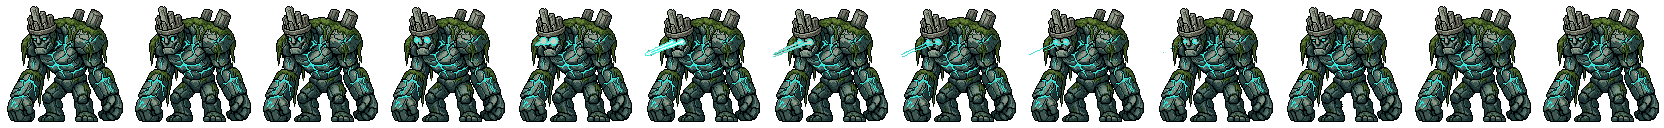
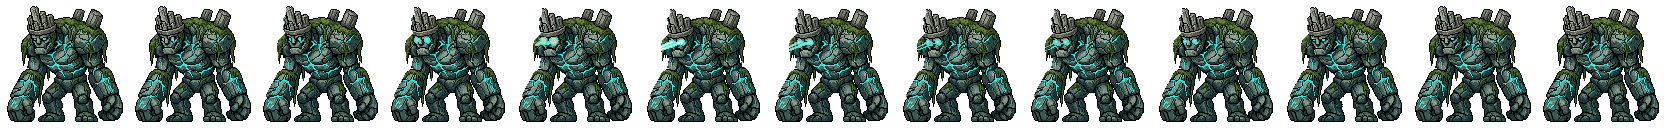
v9.3.1 (en cours) : World Boss — le Colosse ne tire plus 4 rayons (rayons peints dans les images beam/beam3 retirés, seuls les 2 rayons du jeu partent des yeux) ; vidéos promotionnelles 40 s et 20 s (tools/edit-promo.py : caméra, transitions, titres)
Claude-Session: https://claude.ai/code/session_0134j7sUJ6swMBb2FqCxLf5t

Changed region(s): [[0.4375, 0.375, 0.5, 0.4375], [0.375, 0.375, 0.4062, 0.4375], [0.5312, 0.4062, 0.5625, 0.4375]]

diff --git a/src/ui/world-boss.js b/src/ui/world-boss.js
@@ -216,6 +216,7 @@ export function openWorldBoss(state, actions) {
 
   // Outil de capture vidéo (tools) : images pas à pas, 1/60 s chacune, sans requestAnimationFrame.
   if (typeof window !== 'undefined' && window.__wbManual) {
+    window.__wbCtx = ctx;
     window.__wbFrame = () => {
       if (ctx.ended) return true;
       fight.tick();

diff --git a/tools/edit-promo.py b/tools/edit-promo.py
@@ -1,0 +1,121 @@
+#!/usr/bin/env python3
+"""v9.3.1 : vidéos promotionnelles (40 s et 20 s) montées à partir des images filmées par tools/record-trailer.mjs.
+
+  NOENC=1 node tools/record-trailer.mjs --part main --frames DIR ; NOENC=1 WB_SECONDS=20 node tools/record-trailer.mjs --part wb --frames DIR
+  python3 tools/edit-promo.py DIR OUT_DIR [40|20|all]
+
+Mouvements de caméra (zoom avant/arrière, panoramiques) au plus proche voisin, transitions variées (xfade),
+titres animés, mention « Vidéo promotionnelle ». Pas de spoil : une partie des mondes seulement.
+Colosse : la barre et les bandeaux du haut sont hors cadre (recadrage).
+"""
+import os, subprocess, sys
+
+FRAMES, OUT = sys.argv[1], sys.argv[2]
+WHICH = sys.argv[3] if len(sys.argv) > 3 else 'all'
+FPS = 60
+SECS = [2.8, 3, 2.6, 3.2, 2.6, 2.6, 2.4, 2.6, 3.2, 2.6, 3.6, 3]  # plans de record-trailer.mjs (MOMENTS)
+START = [int(sum(SECS[:i]) * FPS) for i in range(len(SECS))]
+FONT = '/usr/share/fonts/opentype/inter/InterDisplay-Bold.otf'
+if not os.path.exists(FONT): FONT = '/usr/share/fonts/truetype/dejavu/DejaVuSerif-Bold.ttf'
+TMP = os.path.join(FRAMES, 'promo-tmp'); os.makedirs(TMP, exist_ok=True); os.makedirs(OUT, exist_ok=True)
+
+def ff(args): subprocess.run(['ffmpeg', '-y', '-loglevel', 'error', *args], check=True)
+
+def esc(s): return s.replace(':', r'\:').replace("'", "’")
+
+def title(text, size, y, t0, t1, color='#ffd76a'):
+    a = f"if(lt(t,{t0}),0,if(lt(t,{t0}+0.3),(t-{t0})/0.3,if(lt(t,{t1}-0.3),1,max(0,({t1}-t)/0.3))))"
+    return (f"drawtext=fontfile={FONT}:text='{esc(text)}':fontsize={size}:fontcolor={color}:alpha='{a}'"
+            f":borderw=5:bordercolor=#1a0d05:shadowx=0:shadowy=6:shadowcolor=black@0.6:x=(w-text_w)/2:y={y}")
+
+def camera(kind, n):
+    # Caméra : image agrandie ×2 puis fenêtre 1280×720 qui zoome ou glisse (proche voisin : pixels nets).
+    p = f"(on/{max(1, n - 1)})"
+    z = {'in': f"1.0+0.18*{p}", 'out': f"1.18-0.18*{p}", 'panL': '1.15', 'panR': '1.15', 'push': f"1.05+0.3*{p}*{p}"}[kind]
+    x = {'panL': f"(iw-iw/zoom)*(1-{p})", 'panR': f"(iw-iw/zoom)*{p}"}.get(kind, 'iw/2-iw/zoom/2')
+    y = 'ih-ih/zoom'  # caméra calée en bas : là où se battent les personnages
+    return f"scale=2560:1440:flags=neighbor,zoompan=z='{z}':x='{x}':y='{y}':d=1:s=1280x720:fps={FPS}"
+
+def clip(name, src, start, n, cam, texts=(), wb=False):
+    out = f"{TMP}/{name}.mp4"
+    vf = []
+    if wb: vf.append('crop=1040:585:120:135,scale=1280:720:flags=neighbor')  # sans la barre du boss
+    vf.append(camera(cam, n))
+    dur = n / FPS
+    vf += [title(t, s, y, a, min(b, dur)) for (t, s, y, a, b) in texts]
+    ff(['-framerate', str(FPS), '-start_number', str(start), '-i', f"{FRAMES}/{src}/f%05d.png", '-frames:v', str(n),
+        '-vf', ','.join(vf) + ',format=yuv420p', '-c:v', 'libx264', '-crf', '14', '-preset', 'veryfast', out])
+    return out, dur
+
+def card(name, dur, lines, bg_frame=None):
+    out = f"{TMP}/{name}.mp4"
+    if bg_frame:
+        inp = ['-loop', '1', '-framerate', str(FPS), '-i', bg_frame]
+        base = f"scale=1280:720,boxblur=12:2,eq=brightness=-0.25,zoompan=z='1+0.06*on/{int(dur*FPS)}':d=1:s=1280x720:fps={FPS}"
+    else:
+        inp = ['-f', 'lavfi', '-i', f"color=c=#0b0716:s=1280x720:r={FPS}"]
+        base = 'null'
+    vf = [base] + [title(t, s, y, a, b, c) for (t, s, y, a, b, c) in lines]
+    ff([*inp, '-t', str(dur), '-vf', ','.join(vf) + ',format=yuv420p', '-c:v', 'libx264', '-crf', '14', '-preset', 'veryfast', out])
+    return out, dur
+
+TRANS = ['fade', 'slideleft', 'circleopen', 'wipeleft', 'smoothleft', 'fadeblack', 'radial', 'slideup', 'zoomin', 'dissolve']
+
+def assemble(parts, out_name, xd=0.35):
+    inputs = []; [inputs.extend(['-i', p]) for p, _ in parts]
+    chain, off, last = [], 0.0, '[0:v]'
+    for i in range(1, len(parts)):
+        off += parts[i - 1][1] - xd
+        lab = f"[v{i}]"
+        chain.append(f"{last}[{i}:v]xfade=transition={TRANS[(i - 1) % len(TRANS)]}:duration={xd}:offset={off:.3f}{lab}")
+        last = lab
+    fc = ';'.join(chain) + f";{last}fade=t=out:st={off + parts[-1][1] - 0.5:.3f}:d=0.5,format=yuv420p[out]"
+    mp4 = f"{OUT}/{out_name}.mp4"
+    ff([*inputs, '-filter_complex', fc, '-map', '[out]', '-c:v', 'libx264', '-preset', 'slow', '-crf', '20', '-movflags', '+faststart', mp4])
+    d = float(subprocess.run(['ffprobe', '-v', 'error', '-show_entries', 'format=duration', '-of', 'csv=p=0', mp4], capture_output=True, text=True).stdout)
+    print(f"{mp4} : {d:.1f} s, {os.path.getsize(mp4) / 1048576:.1f} Mo")
+    return mp4
+
+def world(i, cam, n=None, texts=()):
+    n = n or int(SECS[i] * FPS)
+    return clip(f"w{i}-{cam}-{n}", 'main', START[i], n, cam, texts)
+
+def wb(a, b, cam, texts=()):
+    return clip(f"wb{a}-{cam}", 'wb', int(a * FPS), int((b - a) * FPS), cam, texts, wb=True)
+
+BG = f"{FRAMES}/wb/f00360.png"
+PROMO = 'VIDÉO PROMOTIONNELLE'
+
+if WHICH in ('40', 'all'):
+    parts = [
+        card('open40', 2.6, [(PROMO, 22, 250, 0.1, 2.6, '#c9b8ff'), ('ASCENDRYA', 96, 300, 0.4, 2.6, '#ffd76a'), ('Un RPG idle en pixel art', 34, 430, 0.9, 2.6, '#ffffff')], BG),
+        world(0, 'in', texts=[('DES MONDES À EXPLORER', 54, 70, 0.2, 2.8)]),
+        world(1, 'out'),
+        world(3, 'panR', texts=[('DES BOSS REDOUTABLES', 54, 70, 0.2, 3.2)]),
+        world(4, 'out'),
+        world(7, 'push', texts=[('DES COMPÉTENCES DÉVASTATRICES', 54, 70, 0.2, 2.6)]),
+        world(8, 'panL', texts=[('DES HÉROS ET DES COMPAGNONS', 54, 70, 0.2, 3.2)]),
+        world(10, 'in', texts=[('PLONGEZ DANS L’ABÎME', 54, 70, 0.2, 3.6)]),
+        card('colosse40', 1.8, [('MAIS UN GÉANT S’ÉVEILLE…', 56, 320, 0.15, 1.8, '#ff9a5a')], BG),
+        wb(1.0, 5.6, 'push', [('LE COLOSSE DES ANCIENS', 64, 600, 0.3, 4.6)]),
+        wb(5.8, 9.8, 'panL'),
+        wb(10.0, 14.4, 'in', [('UNISSEZ VOS FORCES', 56, 600, 0.3, 4.4)]),
+        wb(15.6, 19.9, 'out'),
+        card('end40', 3.6, [('ASCENDRYA', 104, 230, 0.1, 3.6, '#ffd76a'), ('PRÉINSCRIPTIONS OUVERTES', 40, 380, 0.5, 3.6, '#ffffff'),
+                            ('Bientôt sur PC et Android', 32, 440, 0.8, 3.6, '#c9b8ff'), (PROMO, 20, 640, 0.8, 3.6, '#8f86b0')], BG),
+    ]
+    assemble(parts, 'ascendrya-promo-40s')
+
+if WHICH in ('20', 'all'):
+    parts = [
+        card('open20', 1.6, [(PROMO, 20, 260, 0.05, 1.6, '#c9b8ff'), ('ASCENDRYA', 92, 300, 0.2, 1.6, '#ffd76a')], BG),
+        world(3, 'panR', n=150, texts=[('DES MONDES À EXPLORER', 52, 70, 0.1, 2)]),
+        world(7, 'push', n=150, texts=[('DES COMPÉTENCES DÉVASTATRICES', 52, 70, 0.1, 2)]),
+        world(8, 'in', n=150),
+        world(10, 'panL', n=150),
+        wb(1.0, 5.0, 'push', [('LE COLOSSE DES ANCIENS', 60, 600, 0.2, 4.0)]),
+        wb(10.0, 13.4, 'in', [('UNISSEZ VOS FORCES', 54, 600, 0.2, 3.4)]),
+        card('end20', 3.0, [('ASCENDRYA', 100, 240, 0.05, 3, '#ffd76a'), ('PRÉINSCRIPTIONS OUVERTES', 38, 390, 0.3, 3, '#ffffff'),
+                            ('Bientôt sur PC et Android', 30, 448, 0.5, 3, '#c9b8ff'), (PROMO, 20, 640, 0.5, 3, '#8f86b0')], BG),
+    ]
+    assemble(parts, 'ascendrya-promo-20s')
